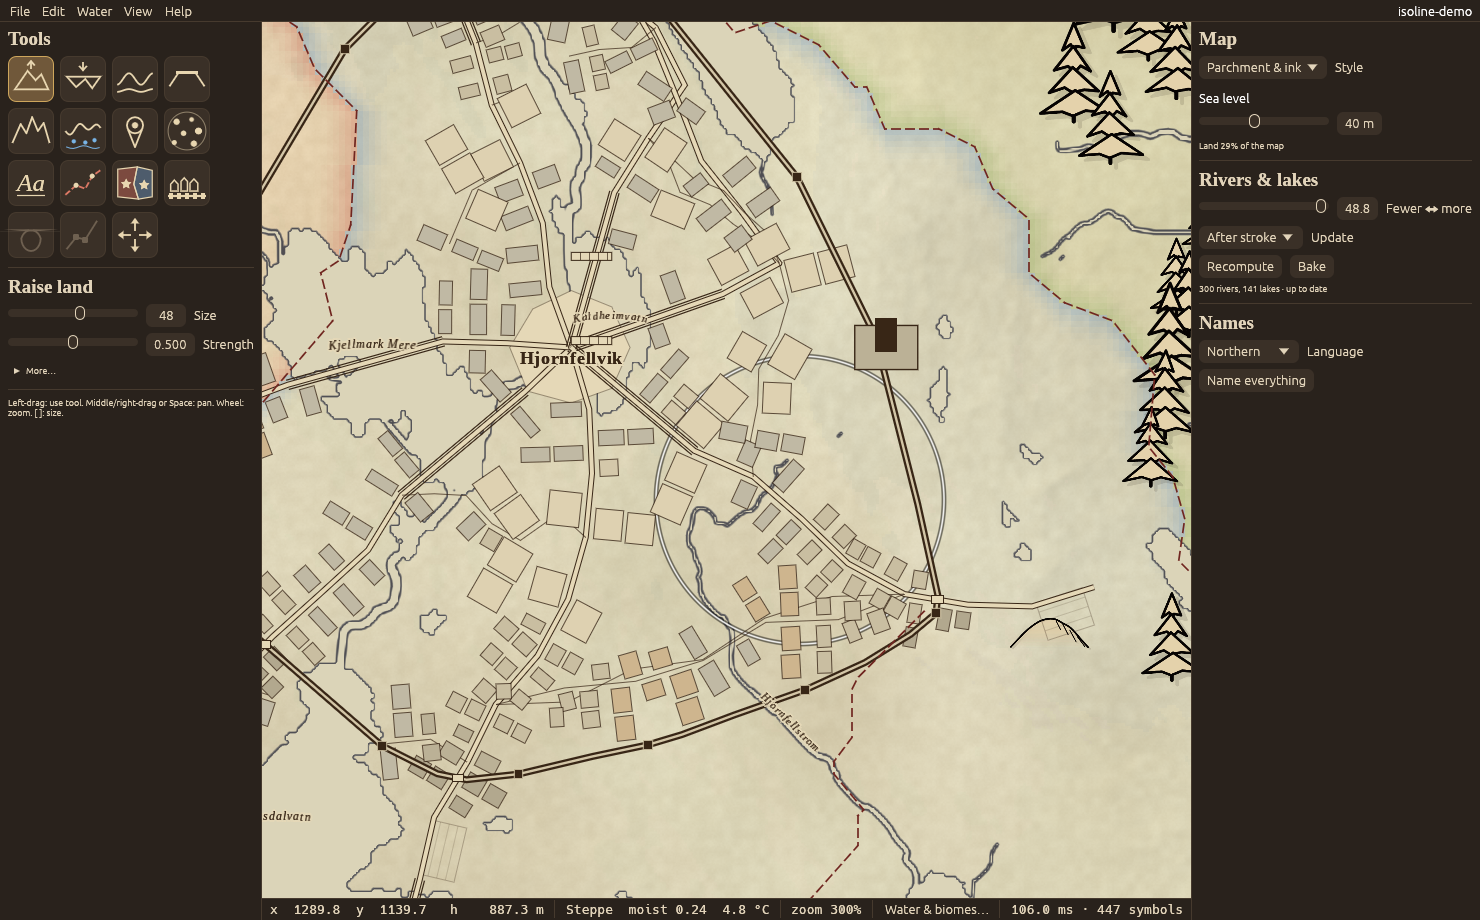
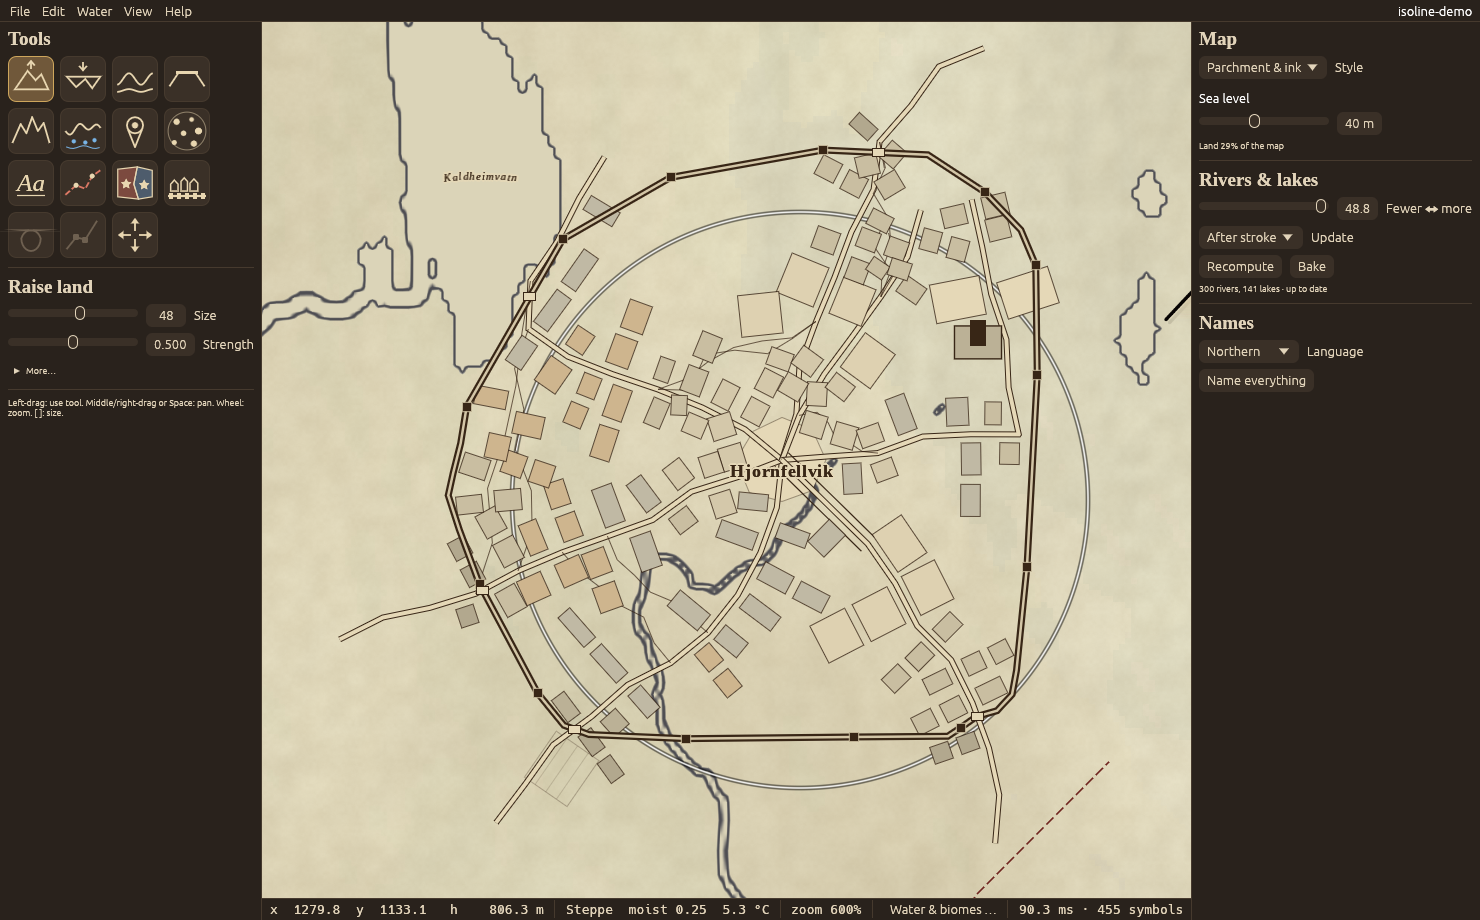
Isoline: smaller towns, evergreen-only trees
Town radii drop to 14/32/56 texels with footprints, street widths and
wall offsets scaled to match, and the zoom gates for the symbol, the
simplified view and full detail rise accordingly. Automatic forests place
conifers only; the round broadleaf symbols leave the default pack and the
forest clusters are redrawn as evergreens.

Claude-Session: https://claude.ai/code/session_01FAM1Mc8dxhyKqx3XwHZ1Bk

diff --git a/isoline/crates/isoline-core/src/settlement.rs b/isoline/crates/isoline-core/src/settlement.rs
@@ -57,9 +57,9 @@ impl SettlementKind {
     /// Base radius in project texels.
     pub fn radius(self) -> f32 {
         match self {
-            SettlementKind::Village => 34.0,
-            SettlementKind::Town => 80.0,
-            SettlementKind::City => 150.0,
+            SettlementKind::Village => 14.0,
+            SettlementKind::Town => 32.0,
+            SettlementKind::City => 56.0,
         }
     }
     pub fn importance(self) -> f32 {
@@ -426,7 +426,7 @@ pub fn generate(site: &Site<'_>, at: P2, p: &SettlementParams) -> Layout {
         }
     };
     let wander = 0.08 + 0.5 * p.irregularity;
-    let step = (radius / 7.0).max(4.0);
+    let step = (radius / 7.0).max(2.5);
 
     // 2. Primary roads.
     let mut roads: Vec<Road> = Vec::new();
@@ -531,7 +531,7 @@ pub fn generate(site: &Site<'_>, at: P2, p: &SettlementParams) -> Layout {
         GrowthModel::Grid => {
             let d = base_dir;
             let q = perp(d);
-            let spacing = (radius / 4.0).max(9.0);
+            let spacing = (radius / 4.0).max(5.0);
             let k = (radius / spacing) as i32;
             for (axis, other) in [(d, q), (q, d)] {
                 for i in -k..=k {
@@ -611,16 +611,16 @@ pub fn generate(site: &Site<'_>, at: P2, p: &SettlementParams) -> Layout {
     // 4/5. Lots and buildings along every street.
     let keep_at = highest_point(site, center, radius * 0.7, max_slope);
     let plaza_r = radius * 0.13;
-    let dock_reach = 14.0f32.max(radius * 0.12);
+    let dock_reach = 6.0f32.max(radius * 0.12);
     let mut hash: Vec<(P2, f32)> = Vec::new();
     let collides = |hash: &[(P2, f32)], c: P2, r: f32| hash.iter().any(|(q, qr)| dist(*q, c) < r + qr);
     let mut buildings = Vec::new();
     let mut next_id = 1u32;
     let road_snapshot = layout.roads.clone();
     for (ri, road) in road_snapshot.iter().enumerate() {
-        let half_w = if road.primary { 2.6 } else { 1.7 };
+        let half_w = if road.primary { 1.4 } else { 0.9 };
         let mut along = 0.0;
-        let spacing_base = 3.0 + 6.0 * (1.0 - p.density);
+        let spacing_base = 1.8 + 3.6 * (1.0 - p.density);
         for w in road.points.windows(2) {
             let seg_len = dist(w[0], w[1]);
             let dir = norm(sub(w[1], w[0]));
@@ -646,9 +646,9 @@ pub fn generate(site: &Site<'_>, at: P2, p: &SettlementParams) -> Layout {
                         continue;
                     }
                     let scale_k = match p.kind {
-                        SettlementKind::Village => 0.85,
-                        SettlementKind::Town => 1.0,
-                        SettlementKind::City => 1.1,
+                        SettlementKind::Village => 0.55,
+                        SettlementKind::Town => 0.62,
+                        SettlementKind::City => 0.7,
                     };
                     let jitter = irr * p.irregularity;
                     let bw = bw * scale_k * (1.0 + h.range(-jitter, jitter));
@@ -709,7 +709,7 @@ pub fn generate(site: &Site<'_>, at: P2, p: &SettlementParams) -> Layout {
                 continue;
             }
             let hull = convex_hull(core);
-            let offset = 5.0 + 2.0 * (1.0 - k as f32);
+            let offset = 2.5 + 1.0 * (1.0 - k as f32);
             let hc = hull.iter().fold([0.0, 0.0], |a, q| [a[0] + q[0] / hull.len() as f32, a[1] + q[1] / hull.len() as f32]);
             let pushed: Vec<P2> = hull.iter().map(|q| add(*q, mul(norm(sub(*q, hc)), offset))).collect();
             let mut ring_pts = chaikin(&pushed, true);
@@ -724,7 +724,7 @@ pub fn generate(site: &Site<'_>, at: P2, p: &SettlementParams) -> Layout {
             }
             let mut towers = Vec::new();
             let mut acc = 0.0;
-            let tower_every = (radius * 0.28).max(12.0);
+            let tower_every = (radius * 0.28).max(6.0);
             for i in 0..ring_pts.len() {
                 let a = ring_pts[i];
                 let b = ring_pts[(i + 1) % ring_pts.len()];
@@ -758,7 +758,7 @@ pub fn generate(site: &Site<'_>, at: P2, p: &SettlementParams) -> Layout {
                 if !poly.contains(c) && !matches!(b.district, District::Docks) {
                     b.district = District::Slums;
                 } else if let Some(g) = gate {
-                    if dist(c, g) < radius * 0.14 && b.district == District::Residential {
+                    if dist(c, g) < radius * 0.16 && b.district == District::Residential {
                         b.district = District::Garrison;
                     }
                 }
@@ -776,7 +776,7 @@ pub fn generate(site: &Site<'_>, at: P2, p: &SettlementParams) -> Layout {
     layout.plaza = Some(Polygon { points: plaza });
     if p.kind != SettlementKind::Village {
         if let Some(k) = keep_at {
-            layout.keep = Some((k, (radius * 0.07).max(5.0)));
+            layout.keep = Some((k, (radius * 0.07).max(2.5)));
             buildings.retain(|b| dist(b.centre(), k) > radius * 0.09);
         }
     }
@@ -805,9 +805,9 @@ pub fn generate(site: &Site<'_>, at: P2, p: &SettlementParams) -> Layout {
                 }
                 if let Some(shore) = found {
                     // Only a real water body takes a pier, not a brook.
-                    let wide = site.is_water(add(shore, mul(to_water, 5.0))) && site.is_water(add(shore, mul(to_water, 10.0)));
+                    let wide = site.is_water(add(shore, mul(to_water, 3.0))) && site.is_water(add(shore, mul(to_water, 6.0)));
                     if wide {
-                        let end = add(shore, mul(to_water, (radius * 0.09).max(6.0)));
+                        let end = add(shore, mul(to_water, (radius * 0.09).max(3.0)));
                         layout.docks.push([shore, end]);
                     }
                 }
@@ -821,8 +821,8 @@ pub fn generate(site: &Site<'_>, at: P2, p: &SettlementParams) -> Layout {
     };
     let cc = add(center, mul(away, radius * 0.95));
     if site.buildable(cc, max_slope) {
-        let w = (radius * 0.16).max(6.0);
-        let h = (radius * 0.11).max(4.0);
+        let w = (radius * 0.16).max(3.0);
+        let h = (radius * 0.11).max(2.0);
         let dx = perp(away);
         layout.cemetery = Some([add(add(cc, mul(dx, w)), mul(away, h)), add(sub(cc, mul(dx, w)), mul(away, h)), sub(sub(cc, mul(dx, w)), mul(away, h)), sub(add(cc, mul(dx, w)), mul(away, h))]);
         buildings.retain(|b| dist(b.centre(), cc) > w.max(h) + 2.0);
@@ -1011,7 +1011,7 @@ mod tests {
         let p = SettlementParams { seed: 7, kind: SettlementKind::Town, ..Default::default() };
         let l = generate(&site, [110.0, 128.0], &p);
         assert!(l.roads.iter().filter(|r| r.primary).count() >= 3);
-        assert!(l.buildings.len() > 40, "{} buildings", l.buildings.len());
+        assert!(l.buildings.len() > 25, "{} buildings", l.buildings.len());
         assert!(!l.walls.is_empty());
         assert!(l.walls[0].towers.len() >= 3);
         assert!(!l.walls[0].gates.is_empty());
@@ -1038,7 +1038,7 @@ mod tests {
         assert_eq!(non_res(&a), non_res(b));
         assert_eq!(a.roads, b.roads);
         assert_ne!(a.buildings, b.buildings);
-        assert!(b.buildings.iter().filter(|x| x.district == District::Residential).count() > 10);
+        assert!(b.buildings.iter().filter(|x| x.district == District::Residential).count() > 5);
     }
 
     #[test]
@@ -1048,7 +1048,7 @@ mod tests {
         for m in GrowthModel::ALL {
             let p = SettlementParams { seed: 11, model: m, kind: SettlementKind::City, ..Default::default() };
             let l = generate(&site, [120.0, 120.0], &p);
-            assert!(l.buildings.len() > 30, "{m:?}: {} buildings", l.buildings.len());
+            assert!(l.buildings.len() > 20, "{m:?}: {} buildings", l.buildings.len());
         }
     }
 

diff --git a/isoline/crates/isoline/src/app.rs b/isoline/crates/isoline/src/app.rs
@@ -128,7 +128,7 @@ pub fn region_color(index: u32) -> egui::Color32 {
 }
 
 /// Zoom below which towns show as their symbol only.
-const TOWN_ICON_ZOOM: f32 = 0.8;
+const TOWN_ICON_ZOOM: f32 = 1.6;
 
 enum SettleDragKind {
     Vertex(VertexRef),
@@ -1287,7 +1287,7 @@ impl AppState {
                 let Some(a) = self.library.get(qid) else { continue };
                 let Some(rect) = a.rect else { continue };
                 let (uv0, uv1) = rect.uv();
-                let size = (st.layout.radius * 0.75).max(30.0);
+                let size = (st.layout.radius * 1.1).max(24.0);
                 let h = size / rect.aspect().max(0.05);
                 let sel = self.selected_settlement == Some(st.id);
                 inst.push(SpriteInstance { pos: st.layout.center, size: [size, h], pivot: [0.5, 0.6], uv0, uv1, rot_flip: [0.0, 0.0], tint: [1.0, 1.0, if sel { 0.6 } else { 1.0 }, 1.0] });
@@ -1994,7 +1994,7 @@ impl AppState {
                         return;
                     }
                     let tol = 7.0 / zoom.max(0.05);
-                    if zoom >= 1.2 {
+                    if zoom >= 2.4 {
                         if let Some(v) = st.layout.vertex_near(fp.to_array(), tol) {
                             self.settle_drag = Some(SettleDrag { before: self.doc.settlements.clone(), settlement: id, kind: SettleDragKind::Vertex(v) });
                             self.input.stroke = true;
@@ -2749,7 +2749,7 @@ impl AppState {
             let z = self.camera.zoom;
             if z >= TOWN_ICON_ZOOM * 0.8 {
                 let alpha = ((z - TOWN_ICON_ZOOM * 0.8) / (TOWN_ICON_ZOOM * 0.4)).clamp(0.0, 1.0);
-                let detail = z >= 1.4;
+                let detail = z >= 2.8;
                 let town_tool = self.tools.tool == Tool::Settlement;
                 let view = egui::Rect::from_min_size(egui::Pos2::ZERO, egui::vec2(ss.x / ppp, ss.y / ppp)).expand(40.0);
                 for st in &self.doc.settlements {

diff --git a/isoline/tools/gen_default_pack.py b/isoline/tools/gen_default_pack.py
@@ -233,9 +233,6 @@ for i in range(3):
     emit(f"conifer_{i+1}", "trees", ["tree", "conifer", "pine", "summer"], 40, 64, conifer(500 + i), size=22)
     emit(f"conifer_snow_{i+1}", "trees", ["tree", "conifer", "pine", "winter", "snow"], 40, 64, conifer(500 + i, fill="#e9eef0"), size=22)
 for i in range(3):
-    emit(f"broadleaf_{i+1}", "trees", ["tree", "broadleaf", "oak", "summer"], 52, 60, broadleaf(600 + i), size=24)
-    emit(f"broadleaf_autumn_{i+1}", "trees", ["tree", "broadleaf", "autumn"], 52, 60, broadleaf(600 + i, fill="#b8742e"), size=24)
-    emit(f"broadleaf_ink_{i+1}", "trees", ["tree", "broadleaf", "ink"], 52, 60, broadleaf(600 + i, fill=PAPER), size=24)
     emit(f"conifer_ink_{i+1}", "trees", ["tree", "conifer", "ink"], 40, 64, conifer(500 + i, fill=PAPER), size=22)
 rng.seed(700)
 palm = poly([(26, 60), (24, 30)], w=2.6)
@@ -250,8 +247,8 @@ for i in range(2):
     rng.seed(720 + i)
     cluster = ""
     for (dx, dy, s) in [(0, 10, 0.9), (30, 4, 1.0), (58, 12, 0.85), (16, 26, 0.95), (44, 28, 0.9)]:
-        cluster += f'<g transform="translate({dx} {dy}) scale({s})">{broadleaf(730 + i * 5 + dx)}</g>'
-    emit(f"forest_cluster_{i+1}", "trees", ["forest", "cluster", "broadleaf"], 110, 90, cluster, size=48)
+        cluster += f'<g transform="translate({dx} {dy}) scale({s})">{conifer(730 + i * 5 + dx, fill=PAPER)}</g>'
+    emit(f"forest_cluster_{i+1}", "trees", ["forest", "cluster", "conifer", "ink"], 110, 90, cluster, size=48)
 
 # ---------------------------------------------------------------- buildings
 def house(x, y, w=18, h=14, tower=False):

diff --git a/isoline/crates/isoline-core/src/placement.rs b/isoline/crates/isoline-core/src/placement.rs
@@ -440,17 +440,10 @@ pub fn place_forest(t: &Terrain<'_>, forest: &ScalarField, temperature: Option<&
                 if t.is_water(pt) || t.slope(pt) > 60.0 || avoid.collides(pt, 4.0) || in_clearing(clearings, pt, 6.0) {
                     continue;
                 }
-                let temp = temperature.map(|tf| tf.sample(pt[0] * tf.width() as f32 / w, pt[1] * tf.height() as f32 / h)).unwrap_or(12.0);
-                let conifer_zone = temp < 6.0 || (temp < 11.0 && rng.f32() < 0.5);
-                let pool = if temp > 22.0 && !sets.palms.is_empty() && rng.f32() < 0.6 {
-                    &sets.palms
-                } else if conifer_zone && !sets.conifers.is_empty() {
-                    &sets.conifers
-                } else if !sets.broadleaf.is_empty() {
-                    &sets.broadleaf
-                } else {
-                    &sets.conifers
-                };
+                // Every automatic tree is an evergreen; other species stay
+                // in the library for hand placement only.
+                let _ = temperature;
+                let pool = if !sets.conifers.is_empty() { &sets.conifers } else { &sets.broadleaf };
                 let (asset, base) = rng.pick(pool).clone();
                 let size = base * p.size * rng.range(0.8, 1.2);
                 let r = size * 0.28 * (1.0 - 0.4 * d);

diff --git a/isoline/crates/isoline/src/ui.rs b/isoline/crates/isoline/src/ui.rs
@@ -1169,7 +1169,7 @@ pub fn draw(root: &mut egui::Ui, st: &mut UiState, c: UiContext) -> Vec<UiAction
                 }
                 Tool::Settlement => {
                     ui.heading("Towns");
-                    ui.small("Click open land to found a town. Click a town to select it. Zoom in past 140% to drag streets and walls; click a building to move or delete it.");
+                    ui.small("Click open land to found a town. Click a town to select it. Zoom in past 280% to drag streets and walls; click a building to move or delete it.");
                     let sp = &mut c.tools.settlement;
                     let has_sel = c.selected_settlement.is_some();
                     let mut ch = false;

diff --git a/isoline/README.md b/isoline/README.md
@@ -30,14 +30,16 @@ downstream reads them.
   cemetery. Every building's placement is hashed per district seed, street
   and lot; *re-roll district* regenerates one district and merges only its
   buildings back, so the rest of the town is untouched.
-- **Zoom-linked display**: below 80% zoom a town is its symbol (village,
-  town or city); across 64–96% it crossfades into the layout drawn as
-  simplified filled blocks, walls and main streets; above 140% full detail
-  with ink strokes, towers, gates, pier posts and cemetery crosses.
+- **Zoom-linked display**: below 160% zoom a town is its symbol (village,
+  town or city); across 128–192% it crossfades into the layout drawn as
+  simplified filled blocks, walls and main streets; above 280% full detail
+  with ink strokes, towers, gates, pier posts and cemetery crosses. A city
+  is 56 texels across at its radius on a 2048² map (about 5% of the sheet),
+  a town 32, a village 14, so even a capital sits inside its biome.
 - **Towns tool** (`S`): click open land to found a town with the panel's
   kind, model and size (density, irregularity, walls, inner ring and seed
   under *More…*); click a town to select it, and changing a setting
-  rebuilds it with its seed. Above 140% zoom drag street and wall vertices;
+  rebuilds it with its seed. Above 240% zoom drag street and wall vertices;
   click a building to select it, drag to move it, Delete to remove it, or
   change its district; *Paint district* drags a district over buildings;
   *Re-roll* takes a new seed; *Re-roll district* redoes one district.
